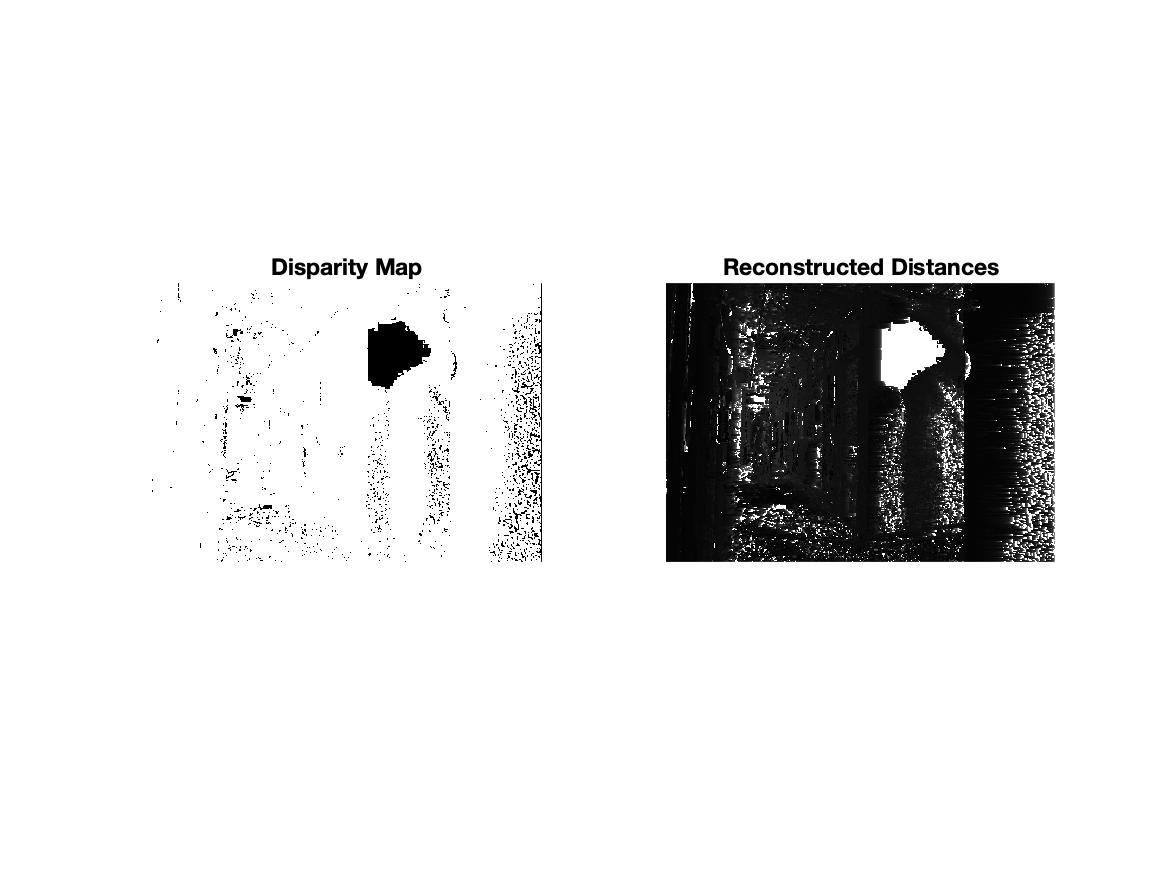
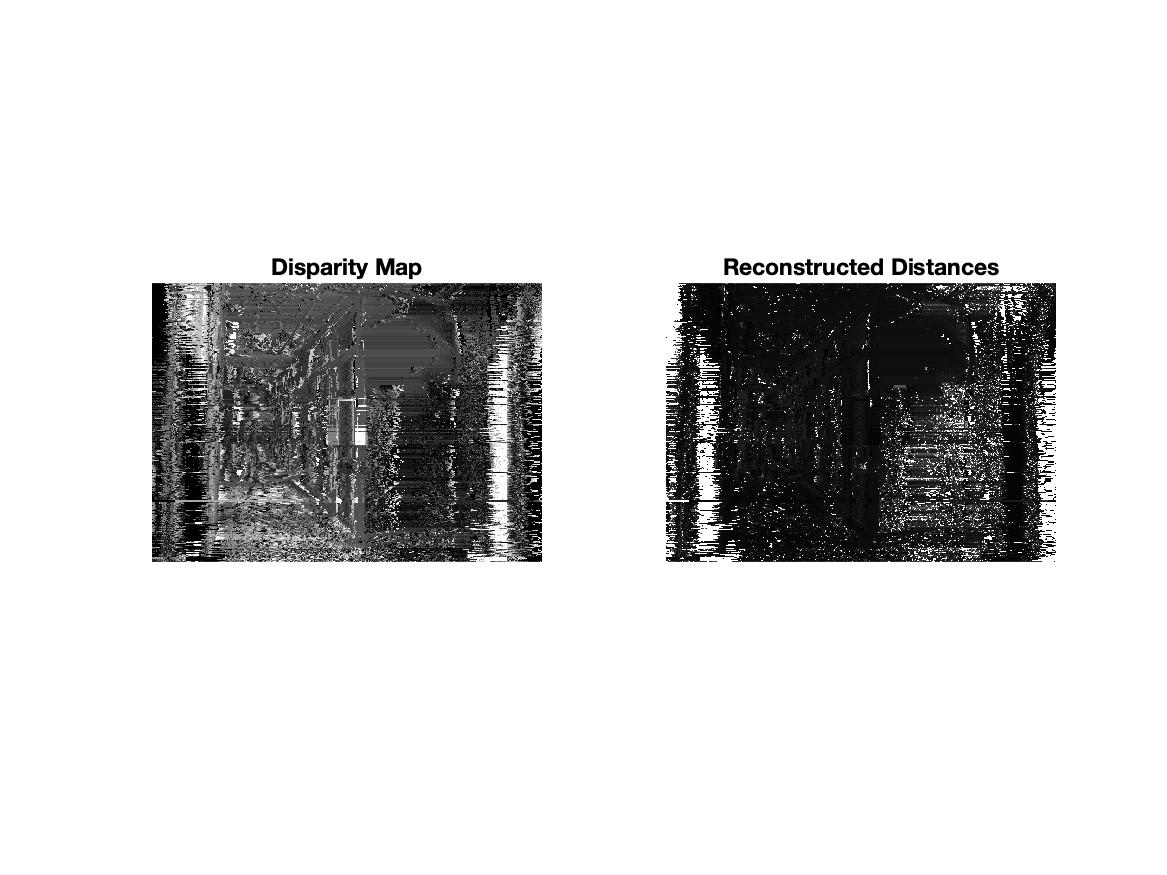
Q6 histograms and images for all parts

Changed region(s): [[0.1234, 0.3086, 0.4627, 0.648], [0.5553, 0.3086, 0.9254, 0.648]]

diff --git a/H4/H4_post_for_students/vision_hwk4.m b/H4/H4_post_for_students/vision_hwk4.m
@@ -79,6 +79,7 @@ imshow(disparityMap5, [0, 64]);
 title('Disparity SSD Window Size 5')
 colormap jet
 colorbar
+
 % saveas(gcf,'Q1_disparityMap.jpg')
 
 %% Task 2: Uniqueness Constraint
@@ -89,25 +90,35 @@ imshow(disparityMapUnique, [0, 64]);
 title('Disparity Map Unique Constraint') 
 colormap jet
 colorbar
+
+% saveas(gcf,'Q2_disparityUniqueneMap.jpg')
+
 %% Task 3: Disparity Smoothness Constraint
 disparityMapSmooth1 = disparitySSDSmooth(frameLeftGray, frameRightGray, 1, .5);
 disparityMapSmooth2 = disparitySSDSmooth(frameLeftGray, frameRightGray, 1, .1);
 
 
 figure
+subplot(1,2,1);
 imshow(disparityMapSmooth1, [0, 64]);
 title('Disparity Map Smoothness Constraint (s = 0.5)') 
 colormap jet
 colorbar
-
-figure
+subplot(1,2,2);
 imshow(disparityMapSmooth2, [0, 64]);
 title('Disparity Map Smoothness Constraint (s = 0.1)') 
 colormap jet
 colorbar
+
+% saveas(gcf,'Q3_disparitySmoothnessMap.jpg')
+
 %% Task 4: Generate Outliers Map
-disparityMap3RL = disparitySSD(frameRightGray, frameLeftGray, 3);
-disparityMap5RL = disparitySSD(frameRightGray, frameLeftGray, 5);
+disparityMap3 = disparitySSDSmooth(frameLeftGray, frameRightGray, 3, 0.5);
+disparityMap5 = disparitySSDSmooth(frameLeftGray, frameRightGray, 5, 0.5);
+% disparityMap3RL = disparitySSD(frameRightGray, frameLeftGray, 3);
+% disparityMap5RL = disparitySSD(frameRightGray, frameLeftGray, 5);
+disparityMap3RL = disparitySSDSmooth(frameRightGray, frameLeftGray, 3, 0.5);
+disparityMap5RL = disparitySSDSmooth(frameRightGray, frameLeftGray, 5, 0.5);
 
 figure
 subplot(2, 2, 1)
@@ -139,74 +150,77 @@ subplot(1, 2, 2)
 imshow(detectOutliers(disparityMap5, disparityMap5RL, 1));
 title('Outliers SSD Window Size 5') 
 colormap gray
-saveas(gcf,'Q4_OutliersMap.jpg')
+
+% saveas(gcf,'Q4_OutliersMap.jpg')
 
 %% Task 5: Compute Depth from Disparity
 
 % disparityMap = disparity(frameLeftGray, frameRightGray);
-disparityMap = disparitySSD(frameLeftGray, frameRightGray, 5);
+% disparityMap = disparitySSDUnique(frameLeftGray, frameRightGray, 5);
+disparityMap = disparitySSDSmooth(frameLeftGray, frameRightGray, 5, 0.5);
 figure
 subplot(1, 2, 1)
-imshow(disparityMap);
+imshow(disparityMap, [0, 64]);
 title('Disparity Map') 
 subplot(1, 2, 2)
-imshow(reconstructSceneCU(disparityMap, stereoParams));
+imshow(reconstructSceneCU(disparityMap, stereoParams), [0, 64]);
 title('Reconstructed Distances') 
-saveas(gcf,'Q5_DistanceMap.jpg')
+
+% saveas(gcf,'Q5_DistanceMap.jpg')
 
 %% Task 6: Synthetic Stereo Sequences
 im2 = imread("./teddy/im2.png");
 im6 = imread("./teddy/im6.png");
 im2Gray  = rgb2gray(im2);
 im6Gray = rgb2gray(im6);
-disp2 = disparitySSD(im2Gray, im6Gray, 5);
-disp6 = disparitySSD(im6Gray, im2Gray, 5);
-% disp2 = disparity(im2Gray, im6Gray);
-% disp6 = disparity(im6Gray, im2Gray);
+disp2 = disparitySSDSmooth(im2Gray, im6Gray, 5, 0.5);
+disp6 = disparitySSDSmooth(im6Gray, im2Gray, 5, 0.5);
+
 dispTruth2 = imread("./teddy/disp2.png");
 dispTruth6 = imread("./teddy/disp6.png");
 
+% errors2 = double(dispTruth2) - disp2;
+% errors6 = double(dispTruth6) - disp6;
 errors2 = dispTruth2 - uint8(disp2);
 errors6 = dispTruth6 - uint8(disp6);
 
 figure
-subplot(2, 4, 1)
+subplot(5, 2, 1)
 imshow(im2);
 title('Teddy 2 Orig')
-subplot(2, 4, 2)
+subplot(5, 2, 2)
 imshow(im6);
 title('Teddy 6 Orig') 
-subplot(2, 4, 3)
+subplot(5, 2, 3)
 imshow(dispTruth2);
 title('Teddy 2 Truth')
-% colormap jet
-% colorbar
-subplot(2, 4, 4)
+subplot(5, 2, 4)
 imshow(dispTruth6);
 title('Teddy 6 Truth')
-% colormap jet
-% colorbar
-subplot(2, 4, 5)
+subplot(5, 2, 5)
 imshow(disp2, [0, 64]);
 title('Teddy 2 SSD')
 colormap gray
-% colormap jet
-% colorbar
-subplot(2, 4, 6)
+subplot(5, 2, 6)
 imshow(disp6, [0, 64]);
 title('Teddy 6 SSD')
 colormap gray
-% colormap jet
-% colorbar
-subplot(2, 4, 7)
-imshow(errors2);
+subplot(5, 2, 7)
+imshow(errors2, [0, 64]);
 title('Teddy 2 Errors') 
 colormap gray
-subplot(2, 4, 8)
-imshow(errors6);
+subplot(5, 2, 8)
+imshow(errors6, [0, 64]);
 title('Teddy 6 Errors')
 colormap gray
-saveas(gcf,'Q5_SyntheticImages.jpg')
+subplot(5, 2, 9)
+histogram(errors2, 25);
+title('Hist Teddy 2 Errors');
+subplot(5, 2, 10)
+histogram(errors6, 25);
+title('Hist Teddy 6 Errors');
+
+% saveas(gcf,'Q6_SyntheticImages.jpg')
 
 
 
